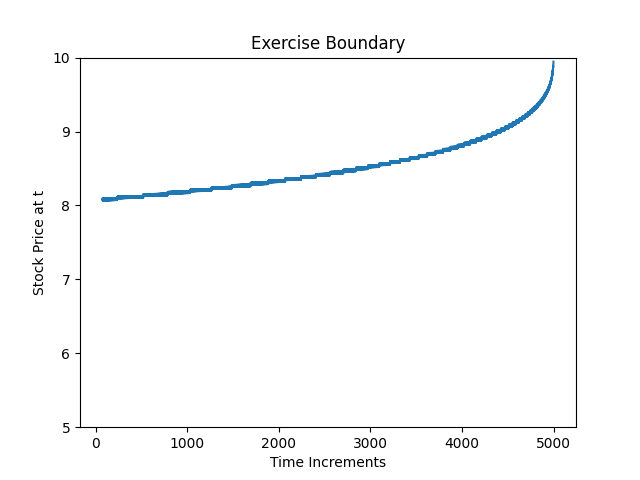
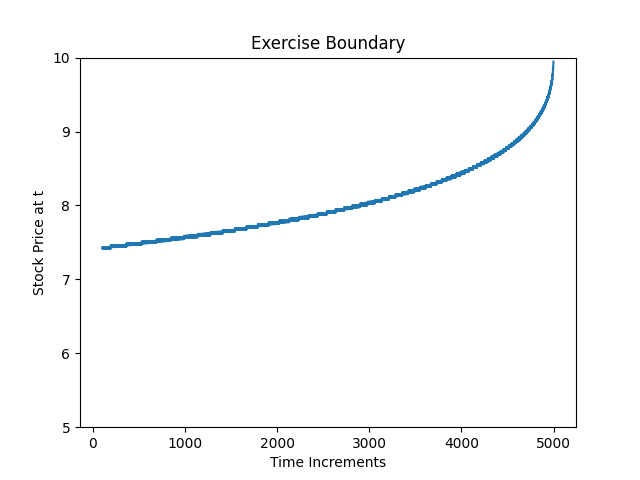
Fixing Option Pricing Index Error
American price: 0.71, European price: 0.69.

diff --git a/AmerOPs.py b/AmerOPs.py
@@ -40,12 +40,16 @@ def CRRPricer_A(TimeToExpiry, InitialPrice, mu, sigma, RiskfreeRate, TotalSteps,
 
     backSteps = optionTree.shape[1] - 1
 
+    discountfactor = np.exp(-RiskfreeRate*dt)
+
+
     for ii in range(backSteps, 0, -1):
         optionTree[0:ii,ii-1] = \
+            discountfactor*\
             (q * optionTree[0:ii, ii] \
             + (1-q) * optionTree[1:ii + 1, ii])
         
-        optionTree[0:ii, ii] = np.maximum(StrikePrice - priceTree[0:ii, ii], optionTree[0:ii, ii])
+        optionTree[0:ii, ii-1] = np.maximum(StrikePrice - priceTree[0:ii, ii-1], optionTree[0:ii, ii-1])
         
         # Try to record the first time it becomes optimal to exercise the option rather than holding it
         exercise_decision = 0

diff --git a/Hedging_Function_American.py b/Hedging_Function_American.py
@@ -45,11 +45,11 @@ def Hedge_Position  (TimeToExpiry, InitialPrice, mu, sigma, RiskfreeRate, TotalS
 
     for ii in range(backSteps, 0, -1):
         optionTree[0:ii,ii-1] = \
-            discountfactor * \
+            discountfactor*\
             (q * optionTree[0:ii, ii] \
             + (1-q) * optionTree[1:ii + 1, ii])
         
-        optionTree[0:ii, ii] = np.maximum(StrikePrice - priceTree[0:ii, ii], optionTree[0:ii, ii])
+        optionTree[0:ii, ii-1] = np.maximum(StrikePrice - priceTree[0:ii, ii-1], optionTree[0:ii, ii-1])
 
     #finding the hedge positions for the S Asset
     hedge_position = np.full_like(priceTree, np.nan)

diff --git a/Price Bath.py b/Price Bath.py
@@ -47,7 +47,7 @@ def CRRPricer_A(TimeToExpiry, InitialPrice, mu, sigma, RiskfreeRate, TotalSteps,
             (pu * optionTree[0:ii, ii] \
             + pd * optionTree[1:ii + 1, ii])
         
-        optionTree[0:ii, ii] = np.maximum(StrikePrice - priceTree[0:ii, ii], optionTree[0:ii, ii])
+        optionTree[0:ii, ii-1] = np.maximum(StrikePrice - priceTree[0:ii, ii-1], optionTree[0:ii, ii-1])
         
         # Try to record the first time it becomes optimal to exercise the option rather than holding it
         exercise_decision = 0
